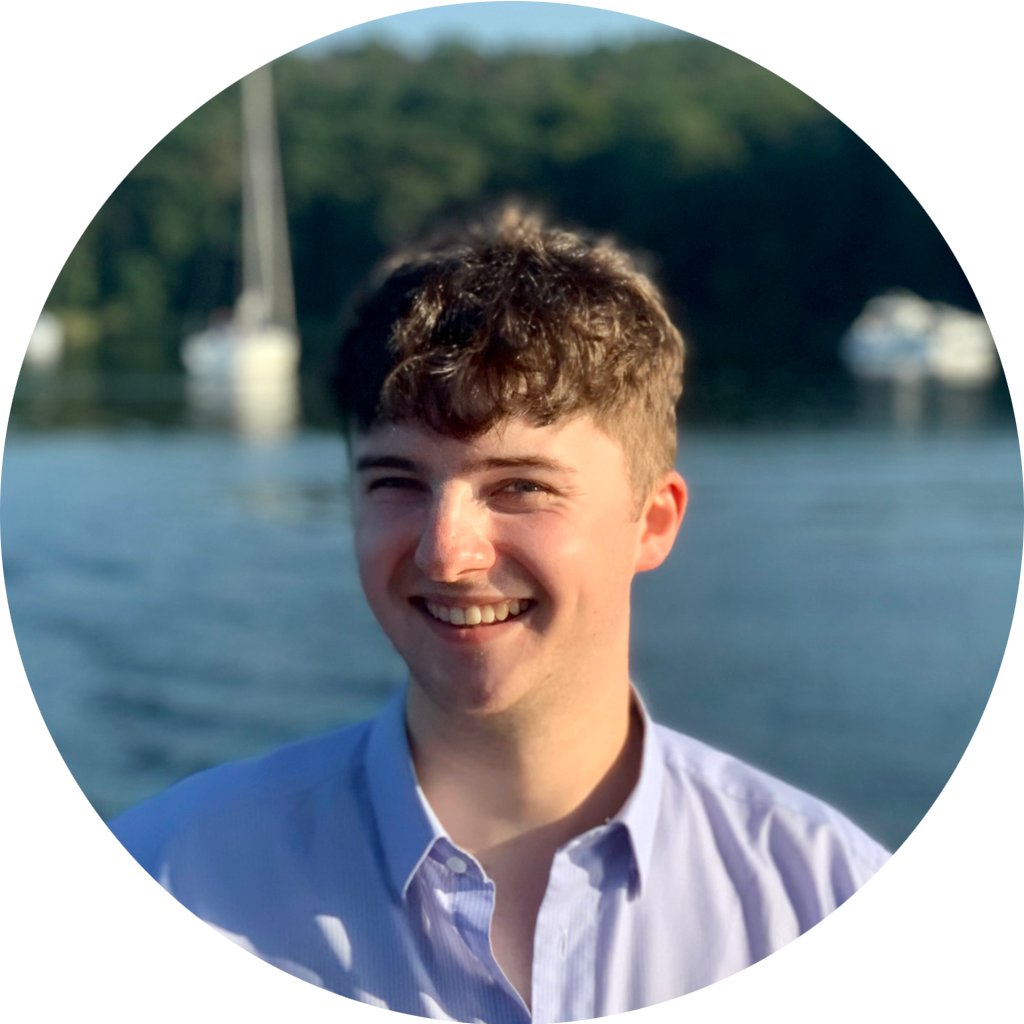
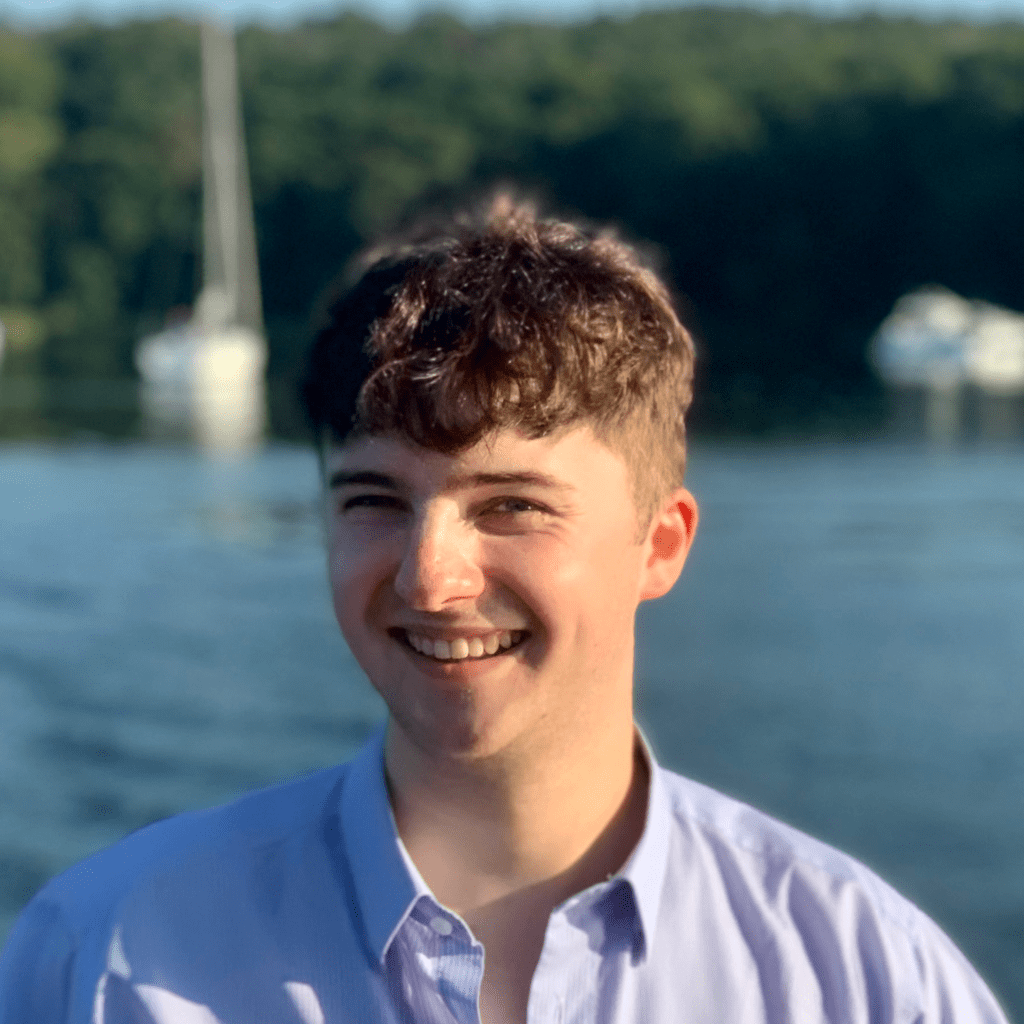
move LinkedIn button to the footer

diff --git a/src/index.html b/src/index.html
@@ -75,26 +75,22 @@
   <body class="bg-light">
 
     <!-- Bild & Name -->
-    <div class="row vh-100 w-100 mw-lg mx-auto d-flex justify-content-center align-content-center">
+    <div class="row vh-100 w-100 mw-lg mx-auto px-5 d-flex justify-content-center align-content-center">
       
       <div class="col-12 col-lg-6 vh-lg-50 m-0 p-0 d-flex justify-content-center justify-content-lg-start align-items-end align-items-lg-start">
-        <img class="mw-50" src="media/brunobergmann.png" alt="Portrait" style="height: intrinsic; max-width: 250px; max-height: 50vh">
+        <img class="img-rounded-border mw-50" src="media/brunobergmann.png" alt="Portrait" style="height: intrinsic; max-width: 250px; max-height: 50vh">
       </div>
 
       <div class="col-12 col-lg-6 m-0 p-0 d-flex justify-content-center justify-content-lg-end align-items-lg-end">
-        <div class="text-center text-lg-end me-lg-5">
-          <p class="mt-4 mt-lg-0 mb-0 text-dark text-uppercase fw-bold fs-3 fs-sm-2 fs-lg-1">Bruno Bergmann</p>
+        <div class="text-center text-lg-end">
+          <p class="mt-4 mt-lg-0 mb-0 text-dark text-uppercase fw-bold fs-2 fs-lg-1">
+            Bruno Bergmann
+          </p>
+            
+          <p class="m-0 ms-1 text-secondary fs-5 fs-sm-4 fs-md-3">
+            Digitale Bildungsarchitektur
+          </p>
 
-          <a href="https://www.linkedin.com/in/bruno-bergmann" type="button" class="btn btn-secondary rounded-3" target="_blank" style="width: fit-content;">
-  
-            <div class="d-flex justify-content-center align-items-center">
-      
-              <i class="fa-brands fa-2x fa-linkedin"></i>
-      
-              <h5 class="fw-bold ms-2 mb-0 mt-1">Besuche mein LinkedIn-Profil</h5>
-      
-            </div>
-          </a>
         </div>
       </div>
 
@@ -211,6 +207,25 @@
           </div>
         </div>
 
+      </div>
+    </div>
+
+
+
+    <div class="row w-100 mw-lg mx-auto px-5 d-flex justify-content-center align-content-center">
+      <div class="d-flex w-100 rounded-top bg-light border border-bottom-0 border-2 border-secondary mw-lg mx-3 mt-4 p-3 justify-content-center align-content-center">
+
+        <a href="https://www.linkedin.com/in/bruno-bergmann" type="button" class="btn btn-secondary border-0 rounded-0" target="_blank" style="width: fit-content;">
+          <div class="d-flex justify-content-center align-items-center">
+  
+            <h5 class="fw-bold me-1 mb-0 mt-1">
+              LinkedIn
+            </h5>
+            <i class="fa-brands fa-2x fa-linkedin mb-0"></i>
+  
+          </div>
+        </a>
+  
       </div>
     </div>
 

diff --git a/src/assets/scss/main.scss b/src/assets/scss/main.scss
@@ -34,3 +34,9 @@
         background-color: lighten($info, 2%) !important;
     }
 }
+
+.img-rounded-border {
+    object-fit: cover; /* Bildverhältnis beibehalten und in den Kreis zuschneiden */
+    border: 3px solid $secondary; /* Rand hinzufügen */
+    border-radius: 50%; /* Kreisform erstellen */
+}

diff --git a/src/assets/scss/abstracts/_utilities.scss b/src/assets/scss/abstracts/_utilities.scss
@@ -14,7 +14,7 @@ $utilities: map-merge(
 );
 
 // Adding more options to the viewport height
-$vh-add: (50: 50vh, 30: 30vh);
+$vh-add: (25: 25vh, 50: 50vh, 75: 75vh);
 
 $utilities: map-merge(
   $utilities,
